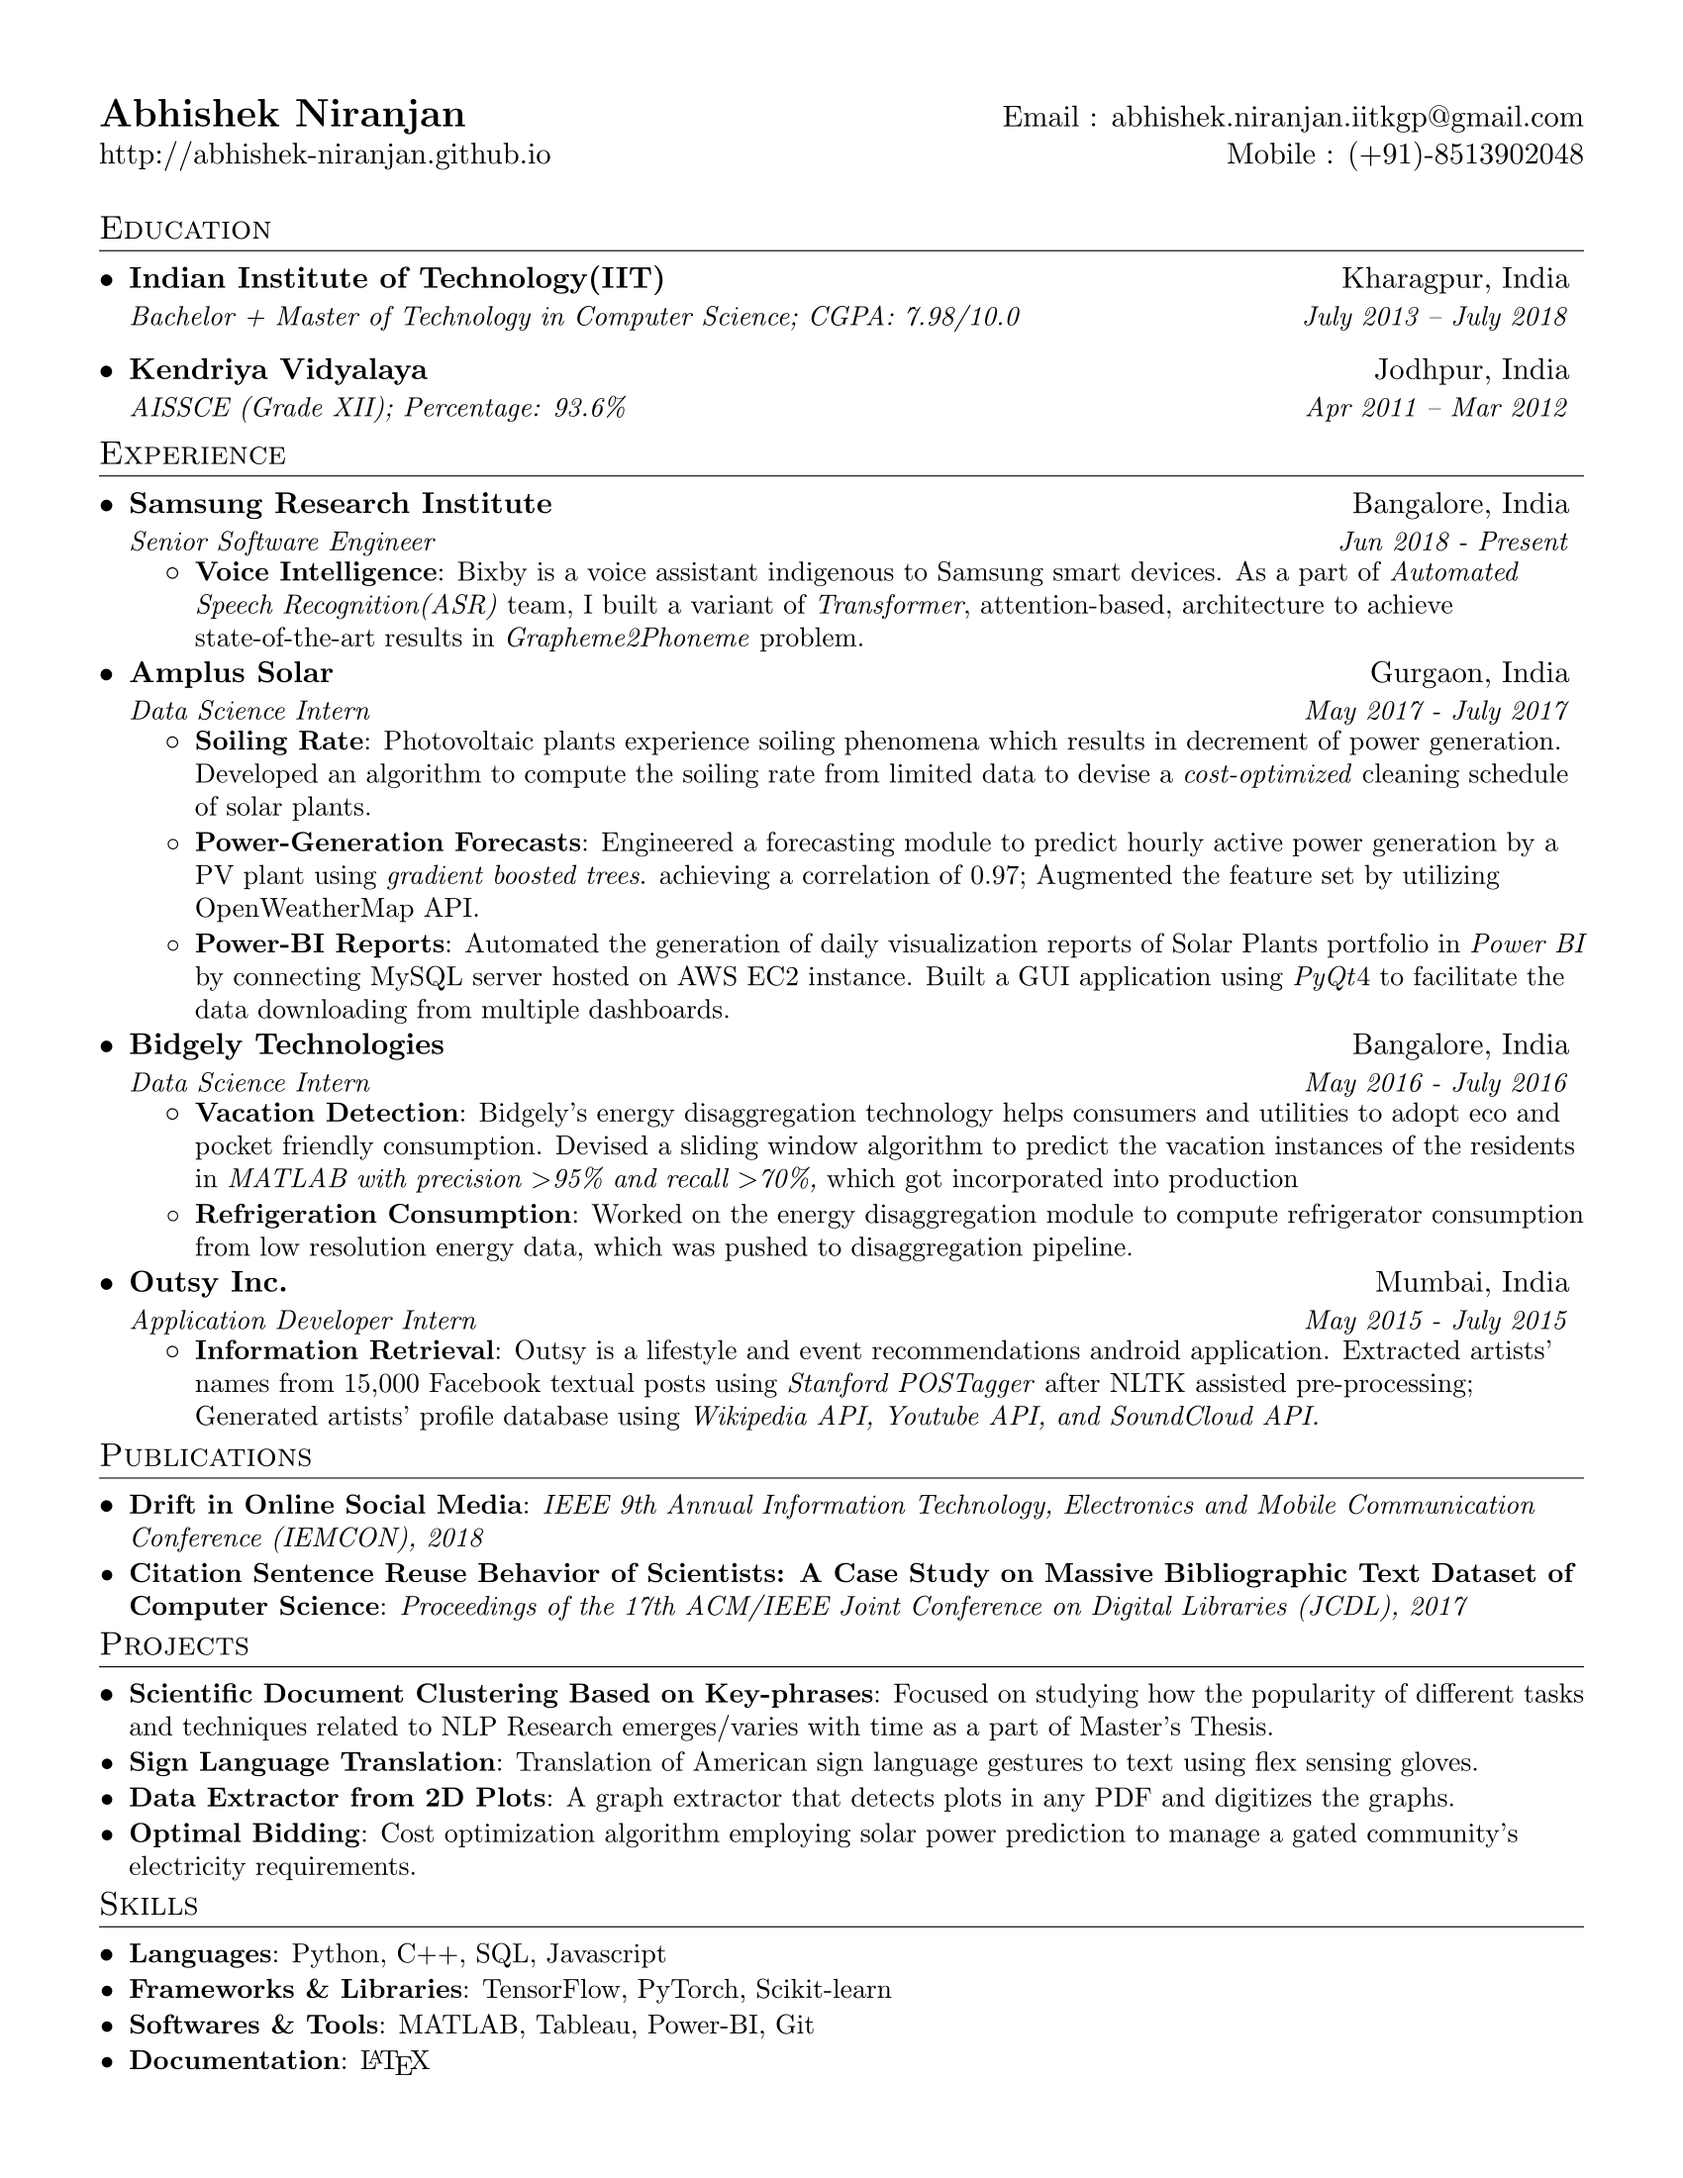
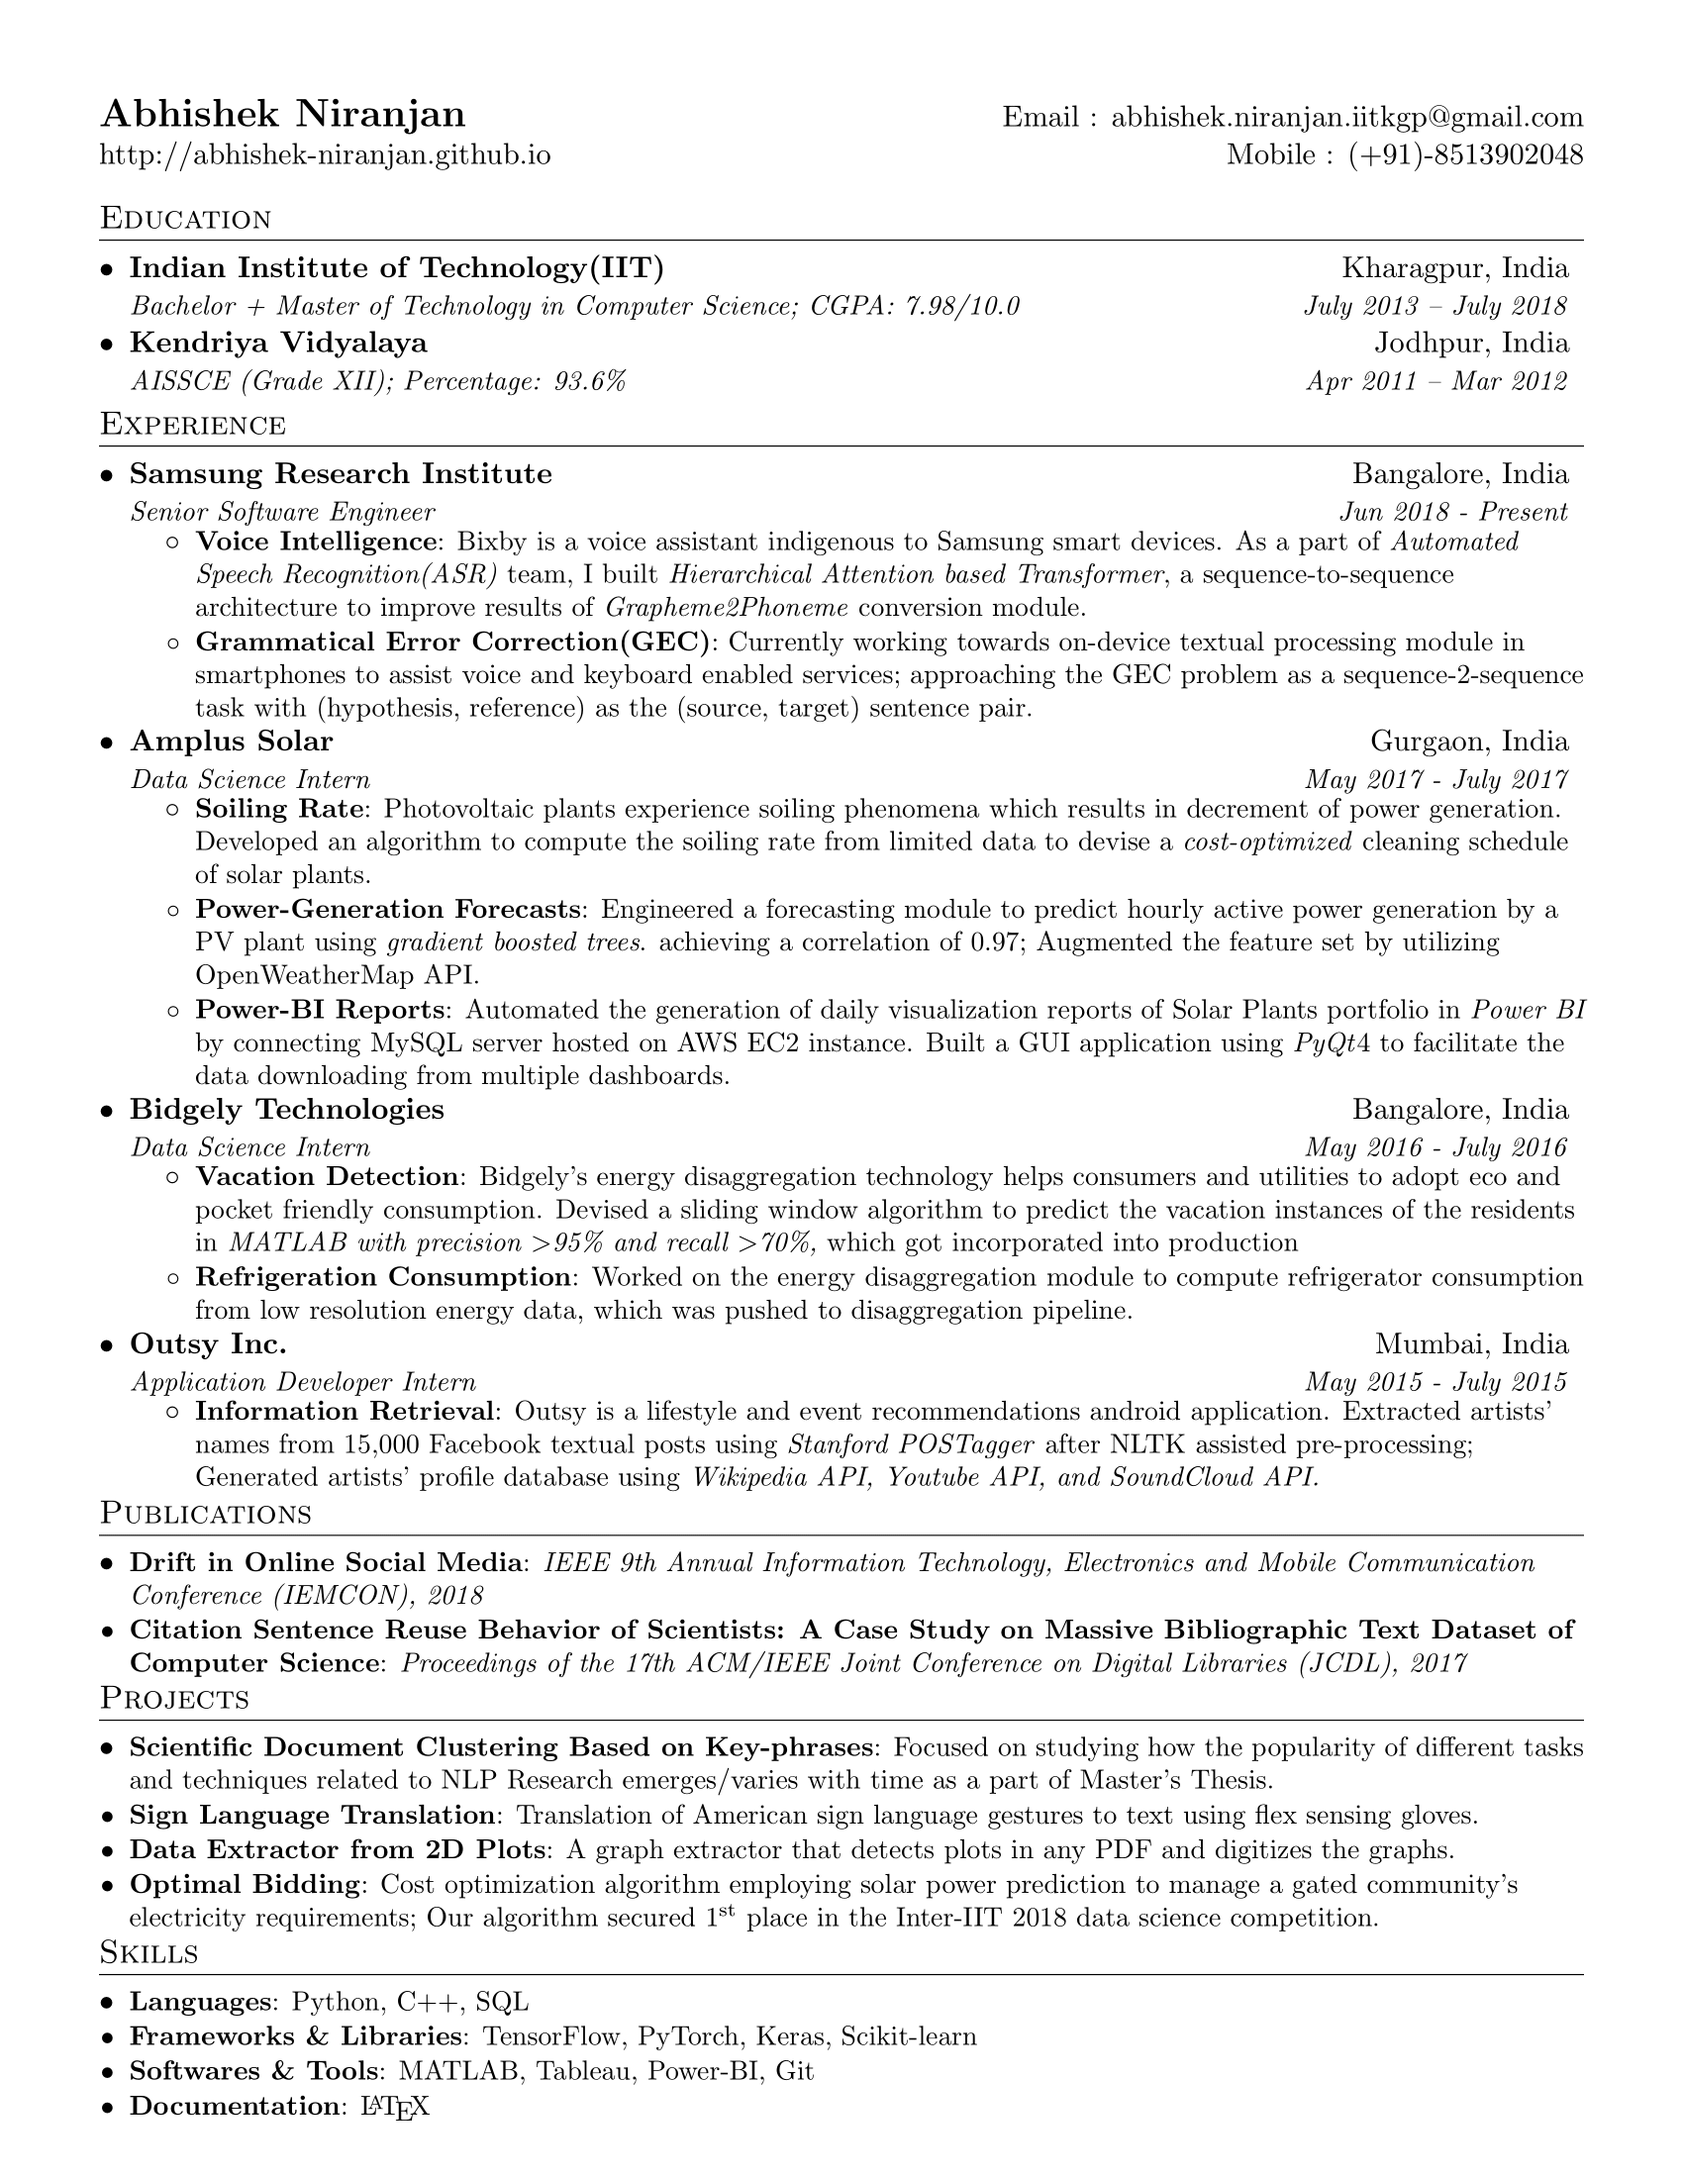
Added GEC task

Changed region(s): [[0.0624, 0.0927, 0.9353, 0.9891]]

diff --git a/aniranjan-resume.tex b/aniranjan-resume.tex
@@ -87,6 +87,7 @@
 % Custom commands
 
 \newcommand{\resumeItem}[2]{
+  %\setlength{\itemindent}{-2.5ex}
   \item\small{
     \textbf{#1}{: #2 \vspace{-3pt}}
   }
@@ -142,14 +143,15 @@
   \textbf{\href{http://abhishek-niranjan.github.io/}{\Large Abhishek Niranjan}} & Email : \href{mailto:abhishek.niranjan.iitkgp@gmail.com}{abhishek.niranjan.iitkgp@gmail.com}\\
   \href{http://abhishek-niranjan.github.io/}{http://abhishek-niranjan.github.io} & Mobile : (+91)-8513902048\\
 \end{tabular*}
+\vspace{-2ex}
 
 %-----------EDUCATION-----------------
-
 \section{Education}
   \resumeSubHeadingListStart
     \resumeSubheading
       {Indian Institute of Technology(IIT)}{Kharagpur, India}
       {Bachelor + Master of Technology in Computer Science;  CGPA: 7.98/10.0}{July 2013 -- July 2018}
+      \vspace{-1.2ex}
     \resumeSubheading
       {Kendriya Vidyalaya}{Jodhpur, India}
       {AISSCE (Grade XII);  Percentage: 93.6\%}{Apr 2011 -- Mar 2012}
@@ -168,7 +170,9 @@
       {Senior Software Engineer}{Jun 2018 - Present}
       \resumeItemListStart
         \resumeItem{Voice Intelligence}
-          {Bixby is a voice assistant indigenous to Samsung smart devices. As a part of \textit{Automated Speech Recognition(ASR)} team, I built a variant of \textit{Transformer}, attention-based, architecture to achieve state-of-the-art results in \textit{Grapheme2Phoneme} problem.}
+          {Bixby is a voice assistant indigenous to Samsung smart devices. As a part of \textit{Automated Speech Recognition(ASR)} team, I built \textit{Hierarchical Attention based Transformer}, a sequence-to-sequence architecture to improve results of \textit{Grapheme2Phoneme} conversion module.}
+        \resumeItem{Grammatical Error Correction(GEC)}
+           {Currently working towards on-device textual processing module in smartphones to assist voice and keyboard enabled services; approaching the GEC problem as a sequence-2-sequence task with (hypothesis, reference) as the (source, target) sentence pair.   }
       \resumeItemListEnd
     \resumeSubheading
       {Amplus Solar}{Gurgaon, India}
@@ -223,7 +227,7 @@
     \resumeSubItem{Data Extractor from 2D Plots}
       {A graph extractor that detects plots in any PDF and digitizes the graphs.}
     \resumeSubItem{Optimal Bidding}
-      {Cost optimization algorithm employing solar power prediction to manage a gated community's electricity requirements.}
+      {Cost optimization algorithm employing solar power prediction to manage a gated community's electricity requirements; Our algorithm secured 1\textsuperscript{st} place in the Inter-IIT 2018 data science competition.}
   \resumeSubHeadingListEnd
 
 
@@ -234,8 +238,8 @@
 
 \section{Skills}
  \resumeSubHeadingListStart
-    \resumeSubItem{Languages}{Python, C++, SQL, Javascript}
-    \resumeSubItem{Frameworks \& Libraries}{TensorFlow, PyTorch, Scikit-learn}
+    \resumeSubItem{Languages}{Python, C++, SQL}
+    \resumeSubItem{Frameworks \& Libraries}{TensorFlow, PyTorch, Keras, Scikit-learn}
     \resumeSubItem{Softwares \& Tools}{MATLAB, Tableau, Power-BI, Git}
     \resumeSubItem{Documentation}{\LaTeX}
  \resumeSubHeadingListEnd
